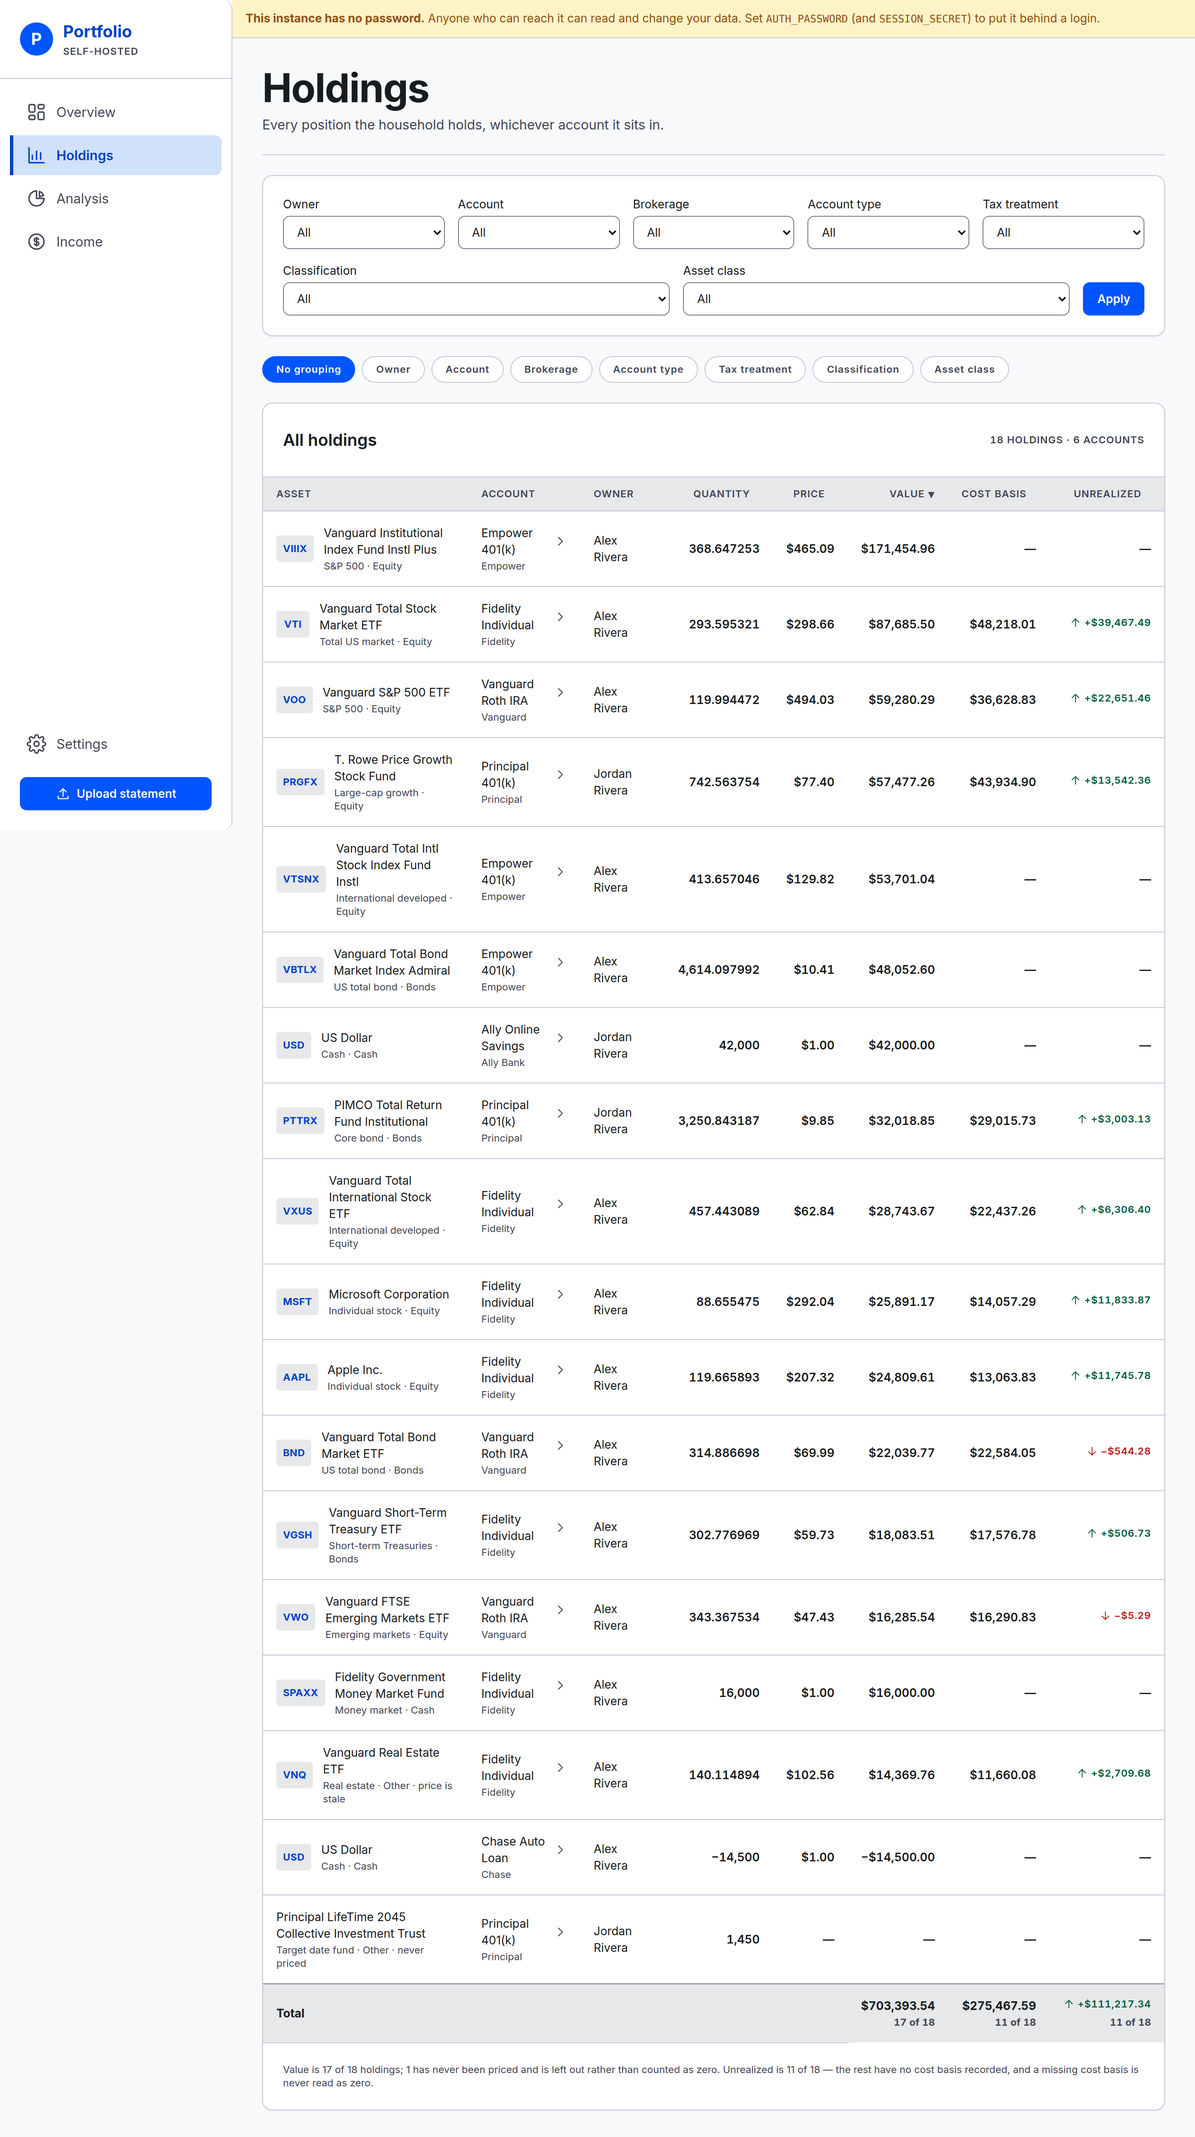
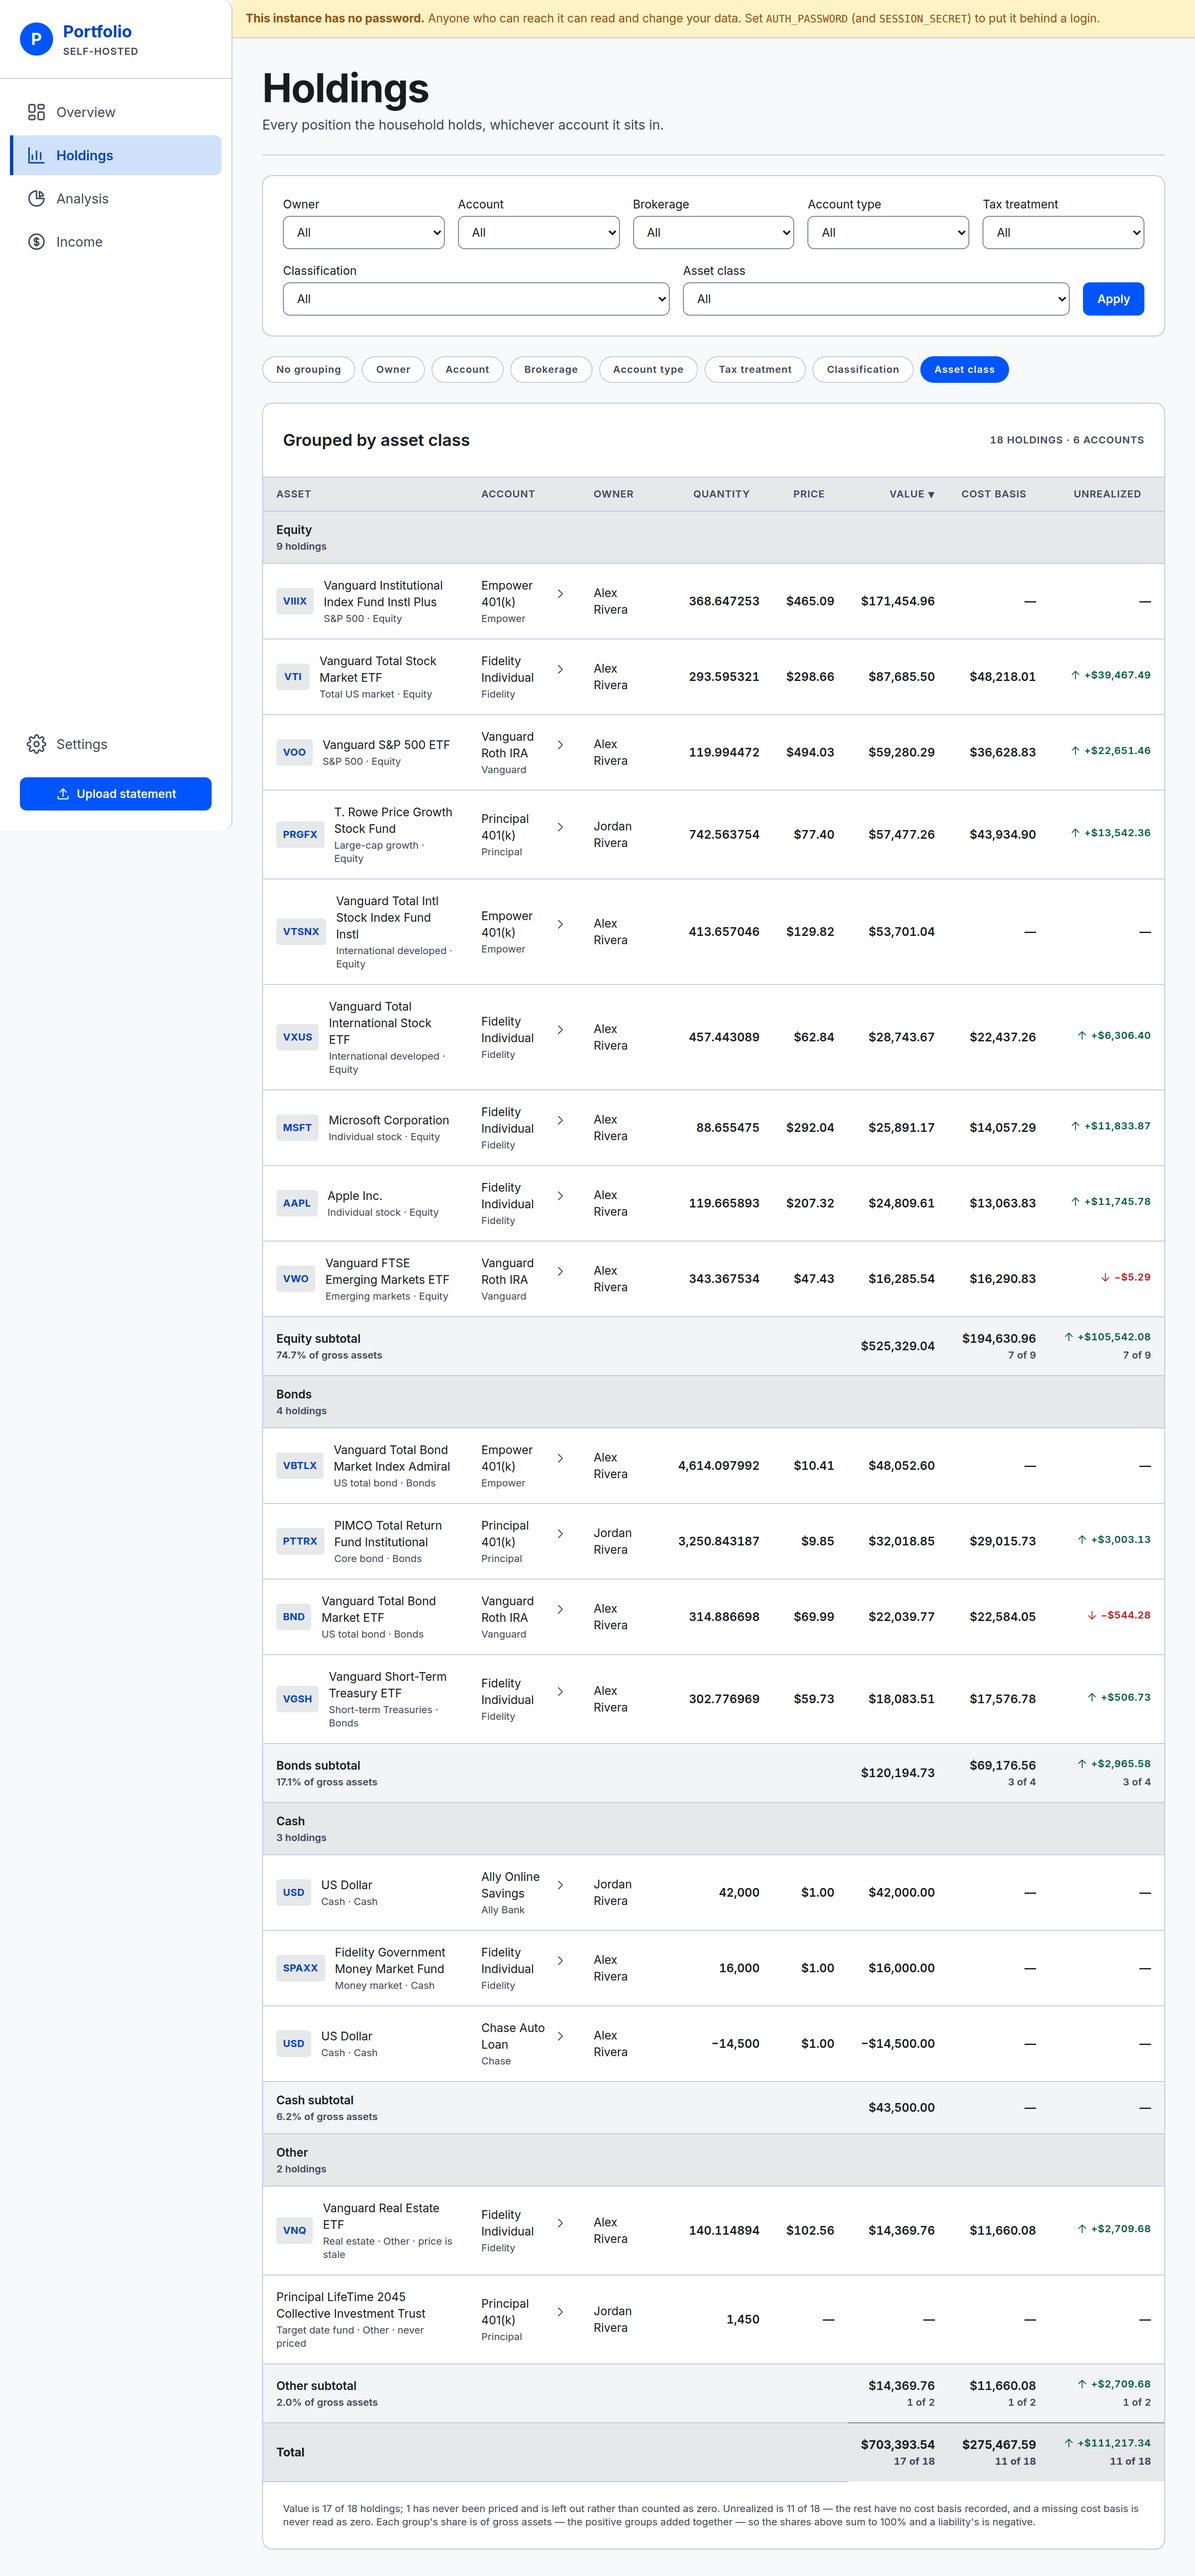
Screenshots: show the Holdings grouping, and stop the poller staling the demo
Two problems with the Holdings shots the previous commit added.

**The picture did not show what the paragraph beside it described.** The
Holdings section leads with "group by any of the same seven, with subtotals",
over an image of an ungrouped table. It now shows the grouped view — group
headings, a subtotal per group with its share of gross assets and its own
coverage count, and the grand total under it. The ungrouped table is the same
rows without any of that, so nothing is lost by picking the grouped one.

**Every row read "price is stale", and none of them should have.** The in-process
poller had run against a machine that cannot reach the price provider, and had
marked fourteen of sixteen quotes stale — working exactly as designed, on a
sandbox rather than on a household's server. The demo seed puts in exactly one
stale price and one holding nobody can price, and those two are the point: a
screenshot where everything is stale hides both. Re-seeded and re-shot with the
poller parked, and `docs/screenshots/README.md` now says to park it, because the
next person to retake these on a CI runner will hit it too.

Also adds a mobile Holdings shot, since "the tables reflowing" in the phone
section is now a real thing worth seeing: eight columns become a card per
position, on the same markup rather than a second layout. The caption says
plainly that a card does not collapse — §8.1 asks for tap-to-expand and this
does not have it.
[…]

diff --git a/docs/screenshots/README.md b/docs/screenshots/README.md
@@ -14,7 +14,8 @@ printf 'DATABASE_URL=postgres://portfolio:portfolio@127.0.0.1:55432/portfolio_de
 node --env-file=.env.demo ./server/migrate.ts
 node --env-file=.env.demo ./scripts/seed-demo.ts
 
-DATABASE_URL=postgres://portfolio:portfolio@127.0.0.1:55432/portfolio_demo npm run dev
+DATABASE_URL=postgres://portfolio:portfolio@127.0.0.1:55432/portfolio_demo \
+  PRICE_POLL_INTERVAL_MINUTES=1440 npm run dev   # see the note below
 ```
 
 Then capture each page below at a 1440×1000 viewport, `deviceScaleFactor: 2`, full page, once with
@@ -24,17 +25,26 @@ back rather than hardcoding: `select id, kind from account`.
 | File | Page | Which account |
 |---|---|---|
 | `overview-*.png` | `/` | — |
-| `holdings-*.png` | `/holdings` | — · unfiltered and ungrouped, which is the state the URL with no query string produces |
+| `holdings-*.png` | `/holdings?group=assetClass` | — · grouped, because grouping and its subtotals are half of what that screen is for and the ungrouped table is the same rows without them |
 | `analysis-*.png` | `/analysis` | — |
 | `account-detail-*.png` | `/accounts/:id` | the `brokerage` one — it holds seven positions, including a stale price |
 | `account-balance-*.png` | `/accounts/:id` | the `liability` one — it carries the set-balance form |
 | `settings-*.png` | `/settings/accounts` | — |
 | `overview-mobile-*.png` | `/` | — |
 | `analysis-mobile-*.png` | `/analysis` | — |
+| `holdings-mobile-*.png` | `/holdings?group=assetClass` | — · scrolled so the first group heading sits under the top bar, since the subject is the card reflow and the filter bar is above it |
 
 Mobile shots (`*-mobile-*.png`) are 390×900, `isMobile`, and **not** full page. The bottom
 navigation is `position: fixed`, and a full-page capture paints it across the middle of the image
-instead of at the foot of the screen where a phone shows it.
+instead of at the foot of the screen where a phone shows it. One consequence: a shot whose subject
+is below the fold has to be scrolled to before the capture, which is why the Holdings one is.
+
+**Turn the price poller off before you shoot**, with `PRICE_POLL_INTERVAL_MINUTES=1440`. It runs
+inside the app process, and on a machine that cannot reach the price provider — a sandbox, a CI
+runner, an aeroplane — the first tick marks every quote stale exactly as it is designed to. The
+screenshots then show a portfolio where everything reads "price is stale", which is a true picture
+of that machine and a false one of the demo: the seed puts exactly one stale price and one
+never-priced holding in, and those two are the point. Re-seed if a shoot has already staled them.
 
 The `AUTH_PASSWORD` banner is left in deliberately. It is what a default instance actually looks
 like, and hiding it would make the screenshots show a configuration the reader does not have.

diff --git a/README.md b/README.md
@@ -36,10 +36,10 @@ so a chosen range survives a reload and can be bookmarked.
 
 <picture>
   <source media="(prefers-color-scheme: dark)" srcset="docs/screenshots/holdings-dark.png">
-  <img alt="Holdings: a filter bar, a group-by strip and the full table of every position with its quantity, price, value, cost basis and unrealized gain" src="docs/screenshots/holdings-light.png">
+  <img alt="Holdings grouped by asset class: a filter bar, a group-by strip, and every position under an Equity, Bonds, Cash or Other heading, each group closing with a subtotal and its share of gross assets" src="docs/screenshots/holdings-light.png">
 </picture>
 
-Every position the household holds, whichever account it sits in. Filter by owner, account,
+Above, grouped by asset class. Every position the household holds, whichever account it sits in. Filter by owner, account,
 brokerage, account type, tax treatment, classification or asset class; group by any of the same
 seven, with subtotals. "Everything Priya holds at Fidelity", "the whole taxable side", "all the
 bonds, wherever they are" — each is this table with the arguments changed rather than a screen of
@@ -131,9 +131,20 @@ cannot be removed, and the refusal names them.
   <source media="(prefers-color-scheme: dark)" srcset="docs/screenshots/overview-mobile-dark.png">
   <img alt="The overview on a phone, with the navigation as a bottom bar" width="390" src="docs/screenshots/overview-mobile-light.png">
 </picture>
+<picture>
+  <source media="(prefers-color-scheme: dark)" srcset="docs/screenshots/holdings-mobile-dark.png">
+  <img alt="Holdings on a phone: the same table reflowed to a card per position, each field labelled" width="390" src="docs/screenshots/holdings-mobile-light.png">
+</picture>
 
 The same pages, with the left rail becoming a bottom bar and the tables reflowing. Nothing is
 withheld on a small screen: setting a balance and the whole of Settings are reachable from a phone.
+
+Holdings — the second shot — is where that reflow does the most work: eight columns become a card per
+position with every field labelled, on the same markup rather than a second layout to keep in step.
+The column headings stay — as a strip of sort links, because "what is my largest position" is a
+question most likely to be asked from a phone. What a card still does **not** do is collapse: §8.1
+asks for tap-to-expand and this does not have it, because a `<details>` cannot wrap a table row and
+there is no client-side JavaScript anywhere in this application to do it another way.
 
 ### Not built yet
 
